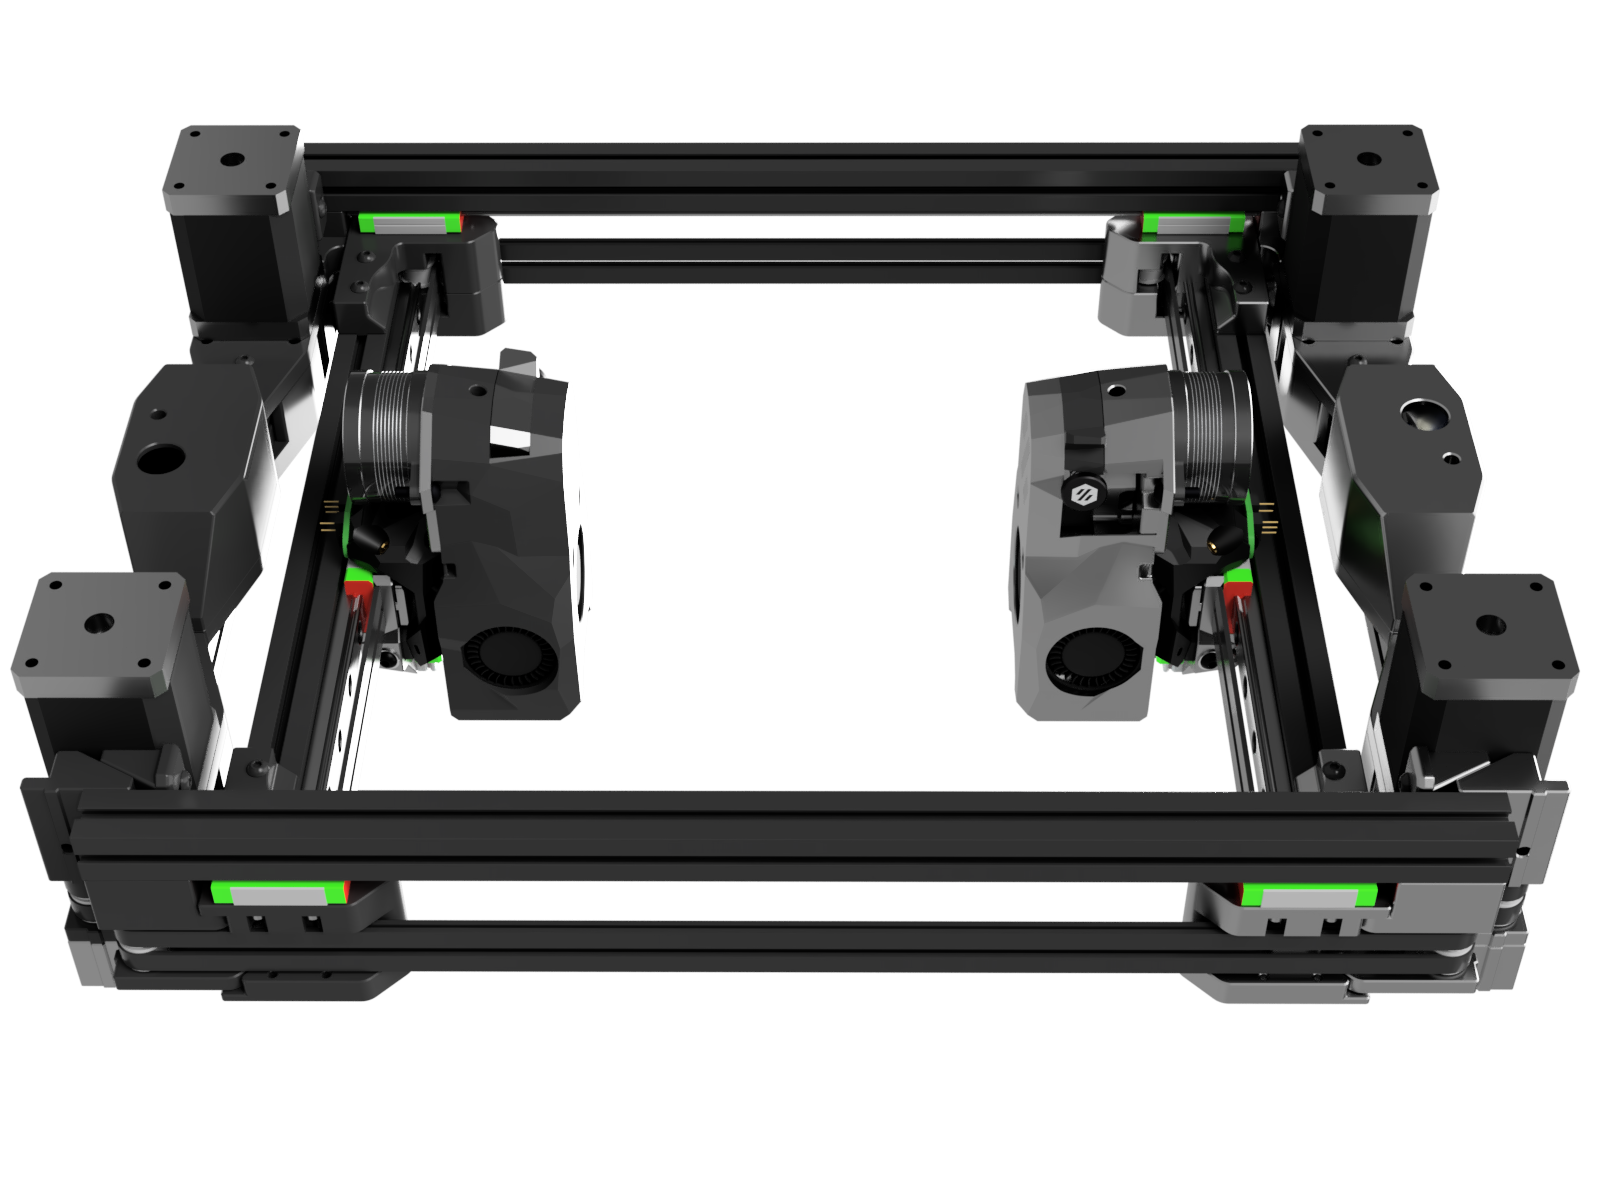
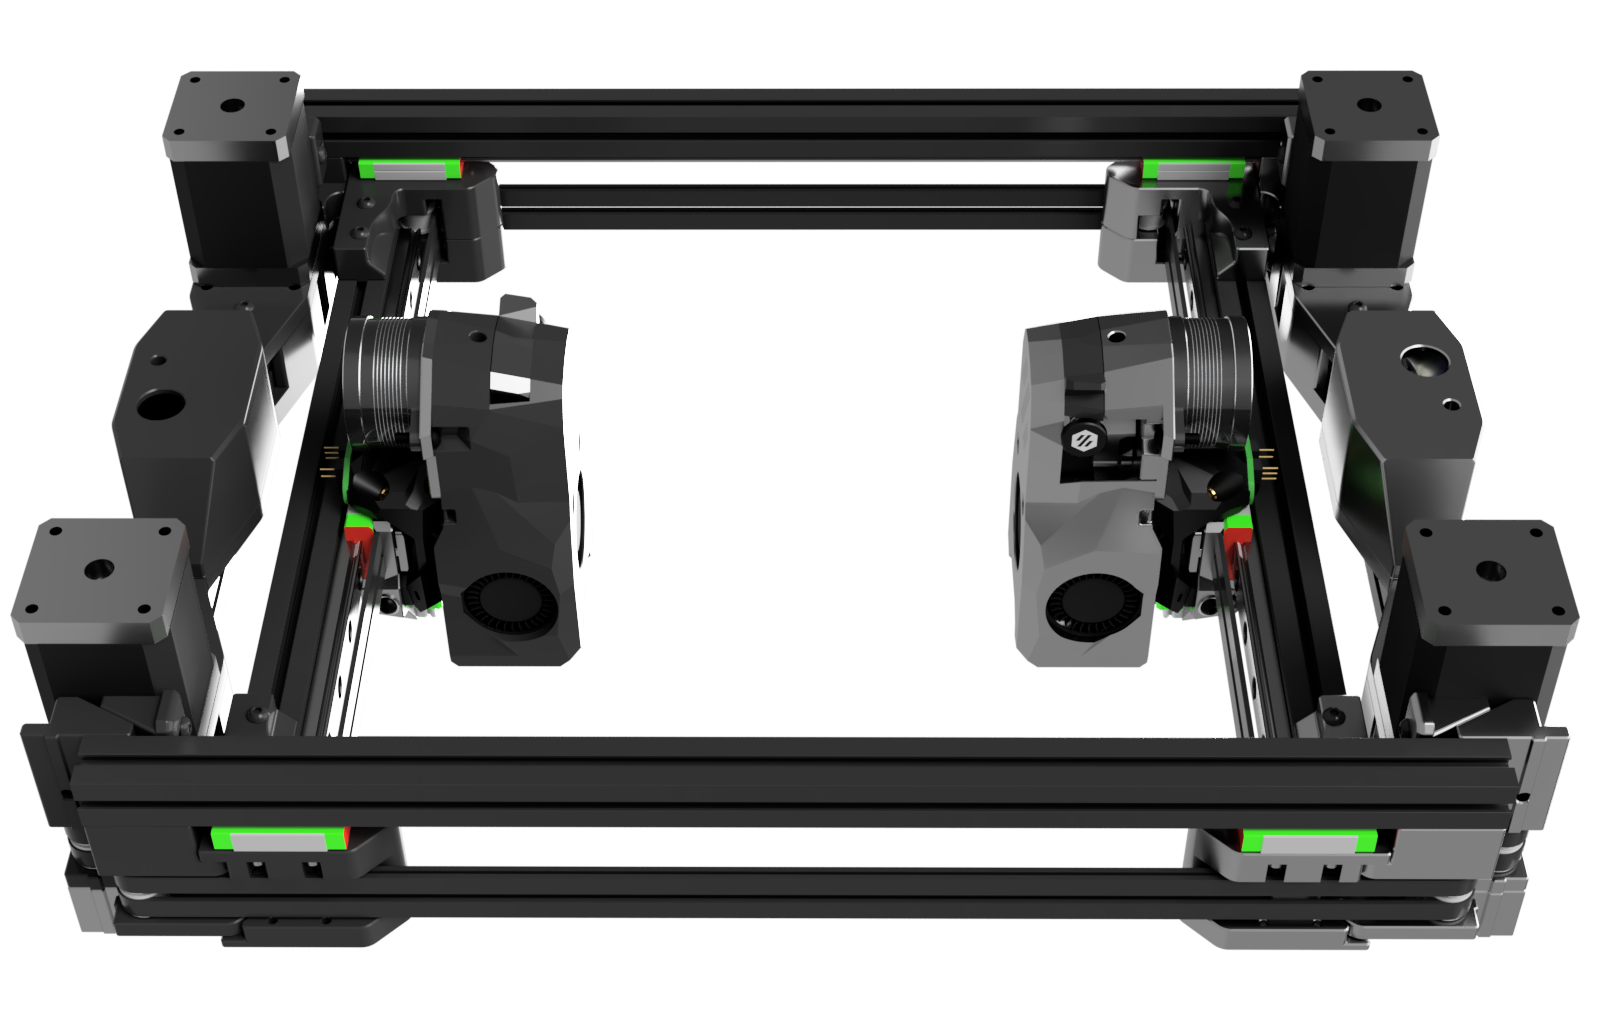
Change 'How does this mod work?' picture

diff --git a/README.md b/README.md
@@ -135,7 +135,7 @@ If all that sounds daunting, this is not the printer for you.  If being the firs
 
 Roughly... start with a Pandora's Box gantry.  Turn it 90 degrees.  Add extra bearing stacks and combine idlers with AB blocks.  Duplicate it about the center.  Flip it upside-down.  Add off-the-shelf Boop and toolheads.
 
-![alt_text](Renders/Gantry/iso_with_final_wires.png)
+![alt_text](Renders/Gantry/over_the_side.png)
 
 That’s the core idea.
 
